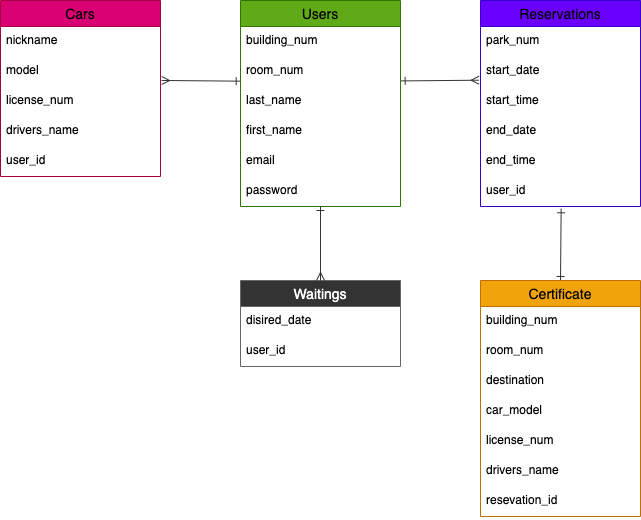
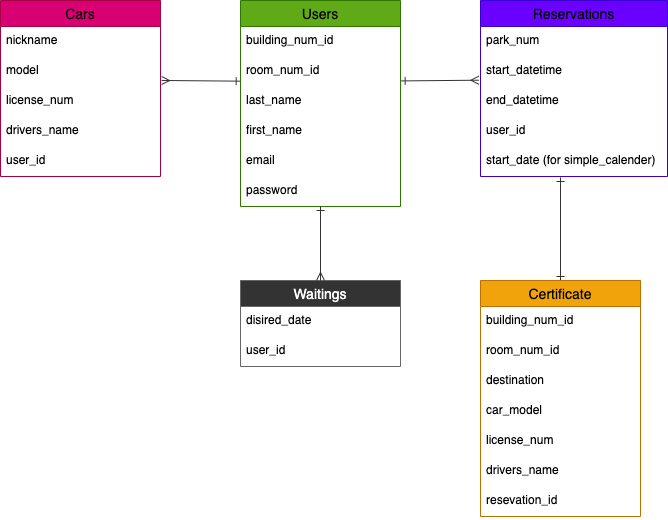
ER図とreadmeの修正

diff --git a/README.md b/README.md
@@ -94,7 +94,7 @@ https://parking-reserve-38018.herokuapp.com/
 今後はヘルプ機能やキャンセル待ち機能を実装予定。
 
 # データベース設計
-[![Image from Gyazo](https://i.gyazo.com/0f9bc7b11183b6b2d43fc02f6913ce3d.png)](https://gyazo.com/0f9bc7b11183b6b2d43fc02f6913ce3d)
+[![Image from Gyazo](https://i.gyazo.com/d337a62e1b56904f567a8bd349d38237.png)](https://gyazo.com/d337a62e1b56904f567a8bd349d38237)
 # 画面遷移図
 [![Image from Gyazo](https://i.gyazo.com/5150d419ff7b7ceff059e1ee31d685a4.png)](https://gyazo.com/5150d419ff7b7ceff059e1ee31d685a4)
 # 開発環境
